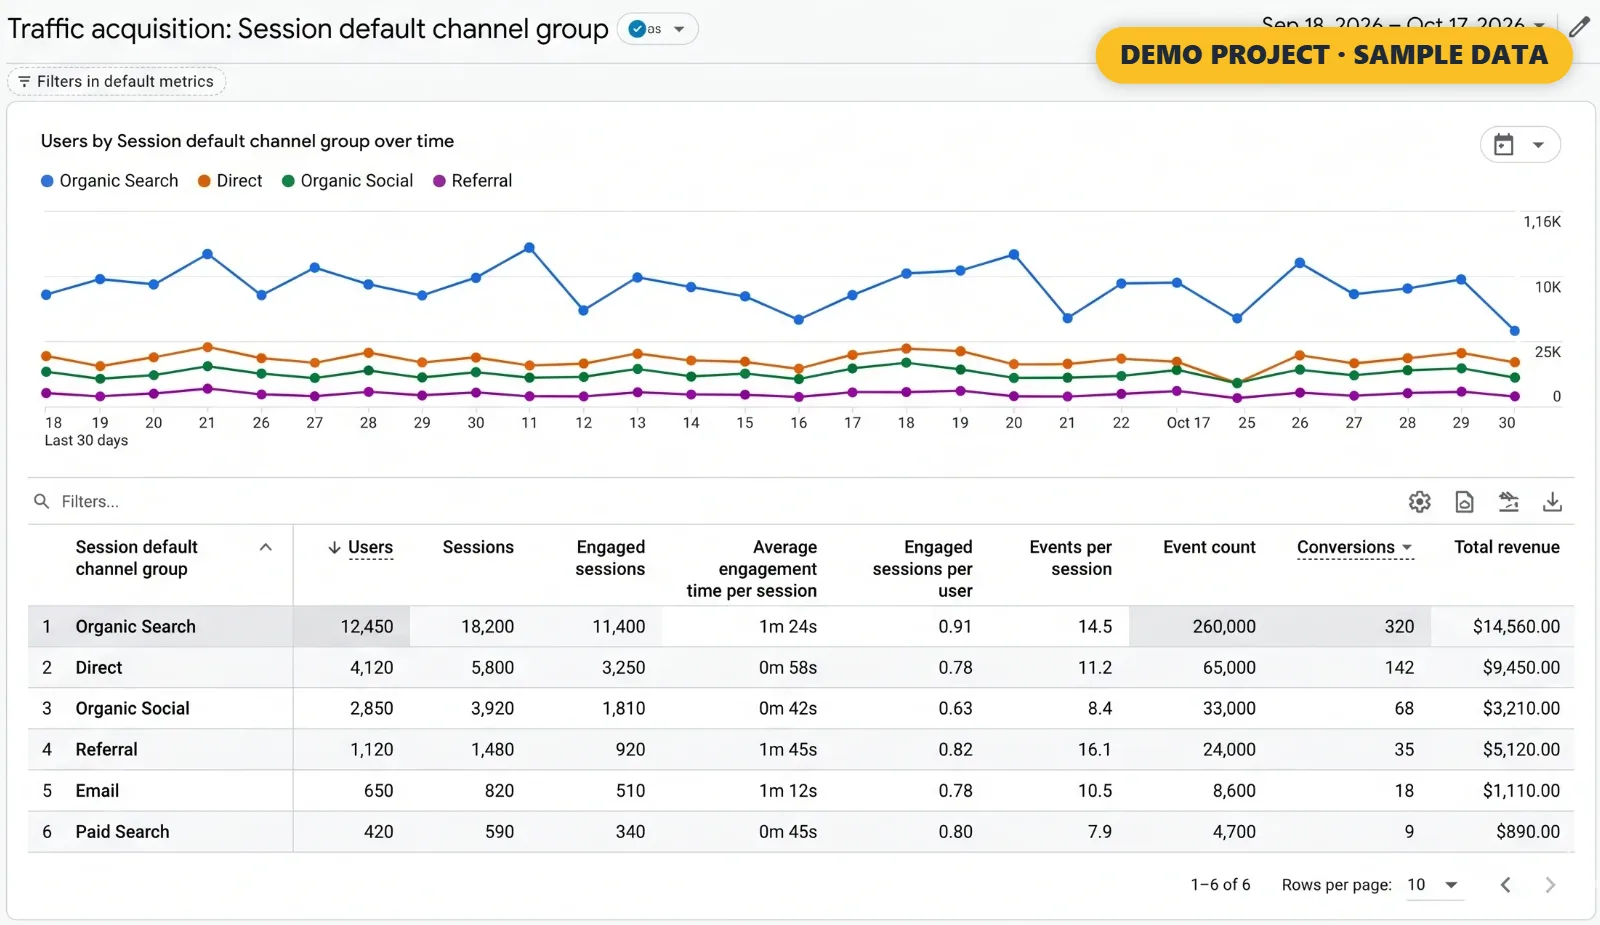
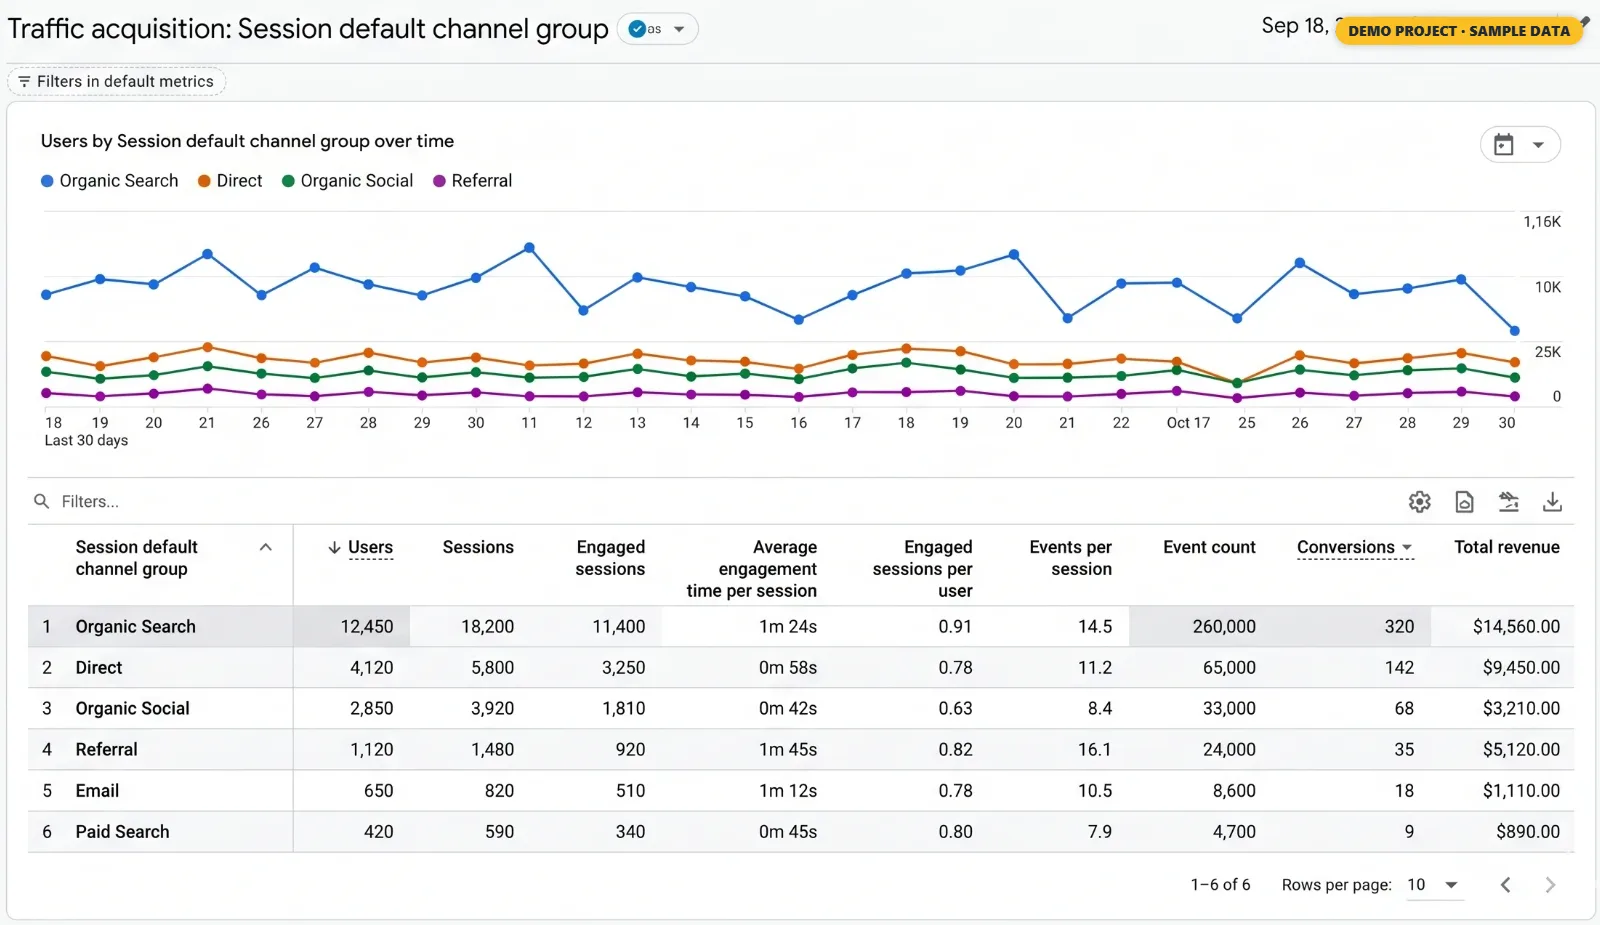
Smaller DEMO PROJECT tag on the Vynox demo images

Changed region(s): [[0.6875, 0.0, 1.0, 0.0908]]

diff --git a/index.html b/index.html
@@ -2206,11 +2206,11 @@ footer{background:var(--bg1);border-top:1px solid var(--glass-b);position:relati
         <div class="vx-demo">
           <div class="seo-sh"><div class="seo-sh-ic"><i class="fas fa-chart-bar ic ic-chart-bar" aria-hidden="true"><svg viewBox="0 0 512 512"><use href="#i-chart-bar"/></svg></i></div><h3>GA4 &amp; Search Console Setup (Demo)</h3></div>
           <div class="vx-grid">
-            <figure class="vx-item vx-wide"><img decoding="async" loading="lazy" data-src="assets/demo-ga4-overview.webp" width="1550" height="966" alt="GA4 e-commerce overview (demo, sample data)"><figcaption><b>GA4 e-commerce overview</b>Users, engaged sessions, conversion rate and revenue, plus views, add-to-carts and purchases for each product.</figcaption></figure>
-            <figure class="vx-item"><img decoding="async" loading="lazy" data-src="assets/demo-ga4-debugview.webp" width="1600" height="850" alt="Event tracking check (Tag Assistant + DebugView) (demo, sample data)"><figcaption><b>Event tracking check (Tag Assistant + DebugView)</b>Testing that view_item, add_to_cart, begin_checkout and purchase fire in order, with the transaction ID, value and items.</figcaption></figure>
-            <figure class="vx-item"><img decoding="async" loading="lazy" data-src="assets/demo-ga4-funnel.webp" width="1110" height="1031" alt="E-commerce funnel exploration (demo, sample data)"><figcaption><b>E-commerce funnel exploration</b>Shows where shoppers drop off between session start and purchase, split by desktop, mobile and tablet.</figcaption></figure>
-            <figure class="vx-item"><img decoding="async" loading="lazy" data-src="assets/demo-ga4-channels.webp" width="1600" height="925" alt="Traffic acquisition by channel (demo, sample data)"><figcaption><b>Traffic acquisition by channel</b>Organic search, direct, social, referral, email and paid, compared on sessions, engagement and conversions.</figcaption></figure>
-            <figure class="vx-item"><img decoding="async" loading="lazy" data-src="assets/demo-gsc-performance.webp" width="1460" height="806" alt="Search Console performance (demo, sample data)"><figcaption><b>Search Console performance</b>Clicks, impressions, CTR and average position for the store's product search terms, plus Core Web Vitals.</figcaption></figure>
+            <figure class="vx-item vx-wide"><img decoding="async" loading="lazy" data-src="assets/demo-ga4-overview.webp?v=2" width="1550" height="966" alt="GA4 e-commerce overview (demo, sample data)"><figcaption><b>GA4 e-commerce overview</b>Users, engaged sessions, conversion rate and revenue, plus views, add-to-carts and purchases for each product.</figcaption></figure>
+            <figure class="vx-item"><img decoding="async" loading="lazy" data-src="assets/demo-ga4-debugview.webp?v=2" width="1600" height="850" alt="Event tracking check (Tag Assistant + DebugView) (demo, sample data)"><figcaption><b>Event tracking check (Tag Assistant + DebugView)</b>Testing that view_item, add_to_cart, begin_checkout and purchase fire in order, with the transaction ID, value and items.</figcaption></figure>
+            <figure class="vx-item"><img decoding="async" loading="lazy" data-src="assets/demo-ga4-funnel.webp?v=2" width="1110" height="1031" alt="E-commerce funnel exploration (demo, sample data)"><figcaption><b>E-commerce funnel exploration</b>Shows where shoppers drop off between session start and purchase, split by desktop, mobile and tablet.</figcaption></figure>
+            <figure class="vx-item"><img decoding="async" loading="lazy" data-src="assets/demo-ga4-channels.webp?v=2" width="1600" height="925" alt="Traffic acquisition by channel (demo, sample data)"><figcaption><b>Traffic acquisition by channel</b>Organic search, direct, social, referral, email and paid, compared on sessions, engagement and conversions.</figcaption></figure>
+            <figure class="vx-item"><img decoding="async" loading="lazy" data-src="assets/demo-gsc-performance.webp?v=2" width="1460" height="806" alt="Search Console performance (demo, sample data)"><figcaption><b>Search Console performance</b>Clicks, impressions, CTR and average position for the store's product search terms, plus Core Web Vitals.</figcaption></figure>
           </div>
         </div>
 
